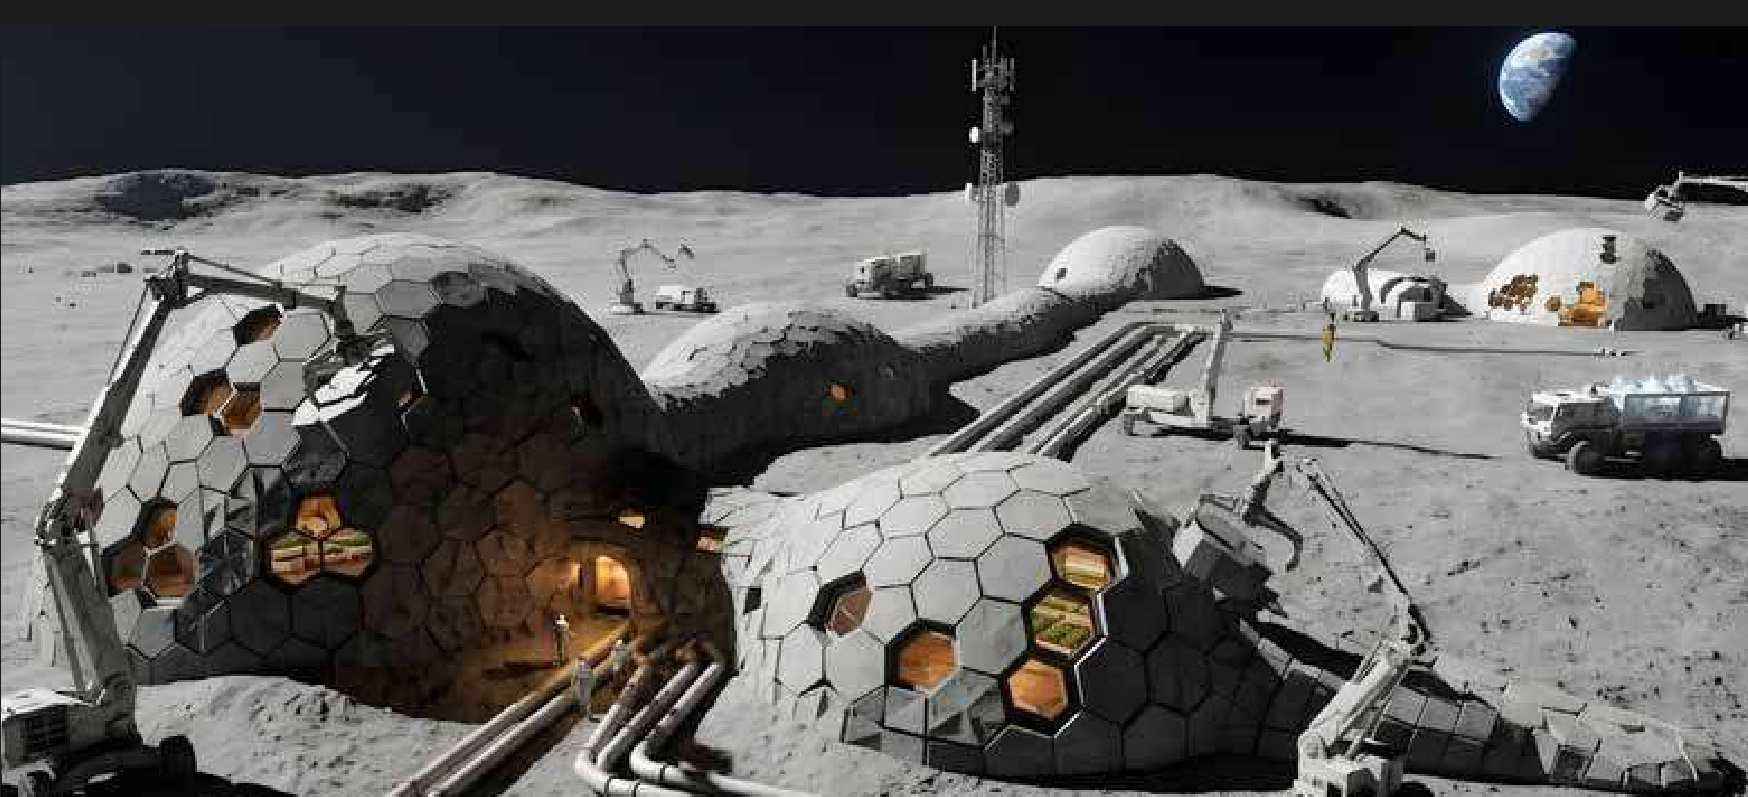
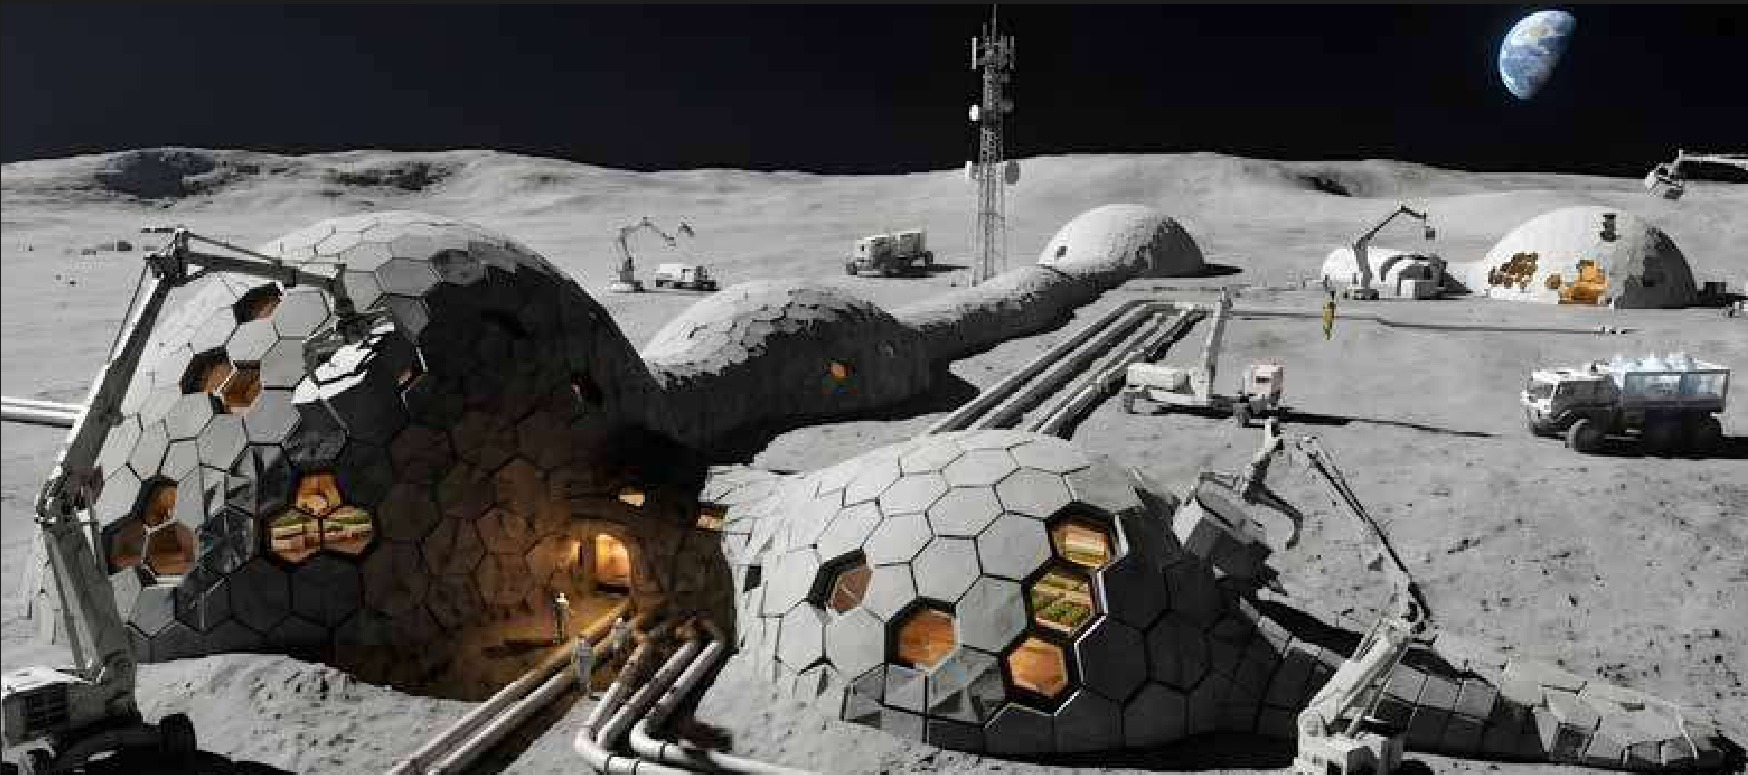
Add 6 major projects to Architecture: Next Earth, RE:FLOW, UN-COVERING, The Bistro, Nagasaki Memorial, Transforming Architecture
- Each project gets 3 pages (hero render, then two supporting images
  cropped from the original studio panels/OMA portfolio)
- English copy per project covers the 5W1H: what it is, where, when,
  why it exists, how it was built, and what tools were used
- Grasshopper geometry studies (Museum/Oceanografic) now sit after the
  major projects as a separate "study" section
- Removed the 10 empty Architecture placeholder cards now that the
  room has real content

diff --git a/assets/js/app.js b/assets/js/app.js
@@ -109,6 +109,39 @@
       ['freelance16.jpg','freelance16_sub.jpg']),
   ];
 
+  const FEATURED_PROJECTS = [
+    {
+      title: 'THE NEXT EARTH',
+      pages: ['assets/images/arch_nextearth_hero.jpg', 'assets/images/arch_nextearth_sections.jpg', 'assets/images/arch_nextearth_robot.jpg'],
+      desc: 'Graduation thesis, Kyonggi University, 2026. An autonomous, robot-built settlement at the lunar south pole, engineered around ISRU (in-situ resource utilization) so it depends on almost nothing shipped from Earth. I translated real space-science data into an actual construction sequence — siting logic, a diagrid shell system, and a custom robotic arm I built and coded myself to prove the assembly process physically, not just on screen. Rhino, Grasshopper, Python, Arduino.',
+    },
+    {
+      title: 'RE:FLOW',
+      pages: ['assets/images/arch_reflow_hero.jpg', 'assets/images/arch_reflow_site.jpg', 'assets/images/arch_reflow_plans.jpg'],
+      desc: 'Capstone Design Studio 5, 2025. An urban regeneration and renovation project for Jeongjo-ro 796, a rare alley in Suwon that still traces the city\'s original 18th-century waterway. I measured the site myself, interviewed the shopkeepers and a security guard who actually work there, and used their accounts to drive a massing strategy that reopens the alley\'s historic flow of water and people. Rhino, AutoCAD, Enscape.',
+    },
+    {
+      title: 'UN-COVERING',
+      pages: ['assets/images/arch_uncovering_hero.jpg', 'assets/images/arch_uncovering_facade.jpg', 'assets/images/arch_uncovering_section.jpg'],
+      desc: 'Design Studio 6, Fall 2025. A timber canopy and public plaza reweaving Tongin Market\'s arcade back into Seoul\'s Seochon neighborhood, addressing a street where materials, ownership, and history had all fragmented. I designed a repeatable timber-and-polycarbonate facade module and an interactive water plaza with four distinct modes, then detailed the construction down to material thickness. Rhino, V-Ray.',
+    },
+    {
+      title: 'THE BISTRO',
+      pages: ['assets/images/arch_bistro_hero.jpg', 'assets/images/arch_bistro_structure.jpg', 'assets/images/arch_bistro_plan.jpg'],
+      desc: '3rd-year studio, Seocho-gu, Seoul. A culinary and cultural complex built on the site\'s history as rice paddies once cultivated for the royal court. The concept — the dynamism of roots — pushed into a form-active diagrid structure with a rice-blended concrete facade, developed through hand sketches, physical mesh studies, and a full structural skin diagram. Rhino, Grasshopper.',
+    },
+    {
+      title: '1945: A Landscape of Memory',
+      pages: ['assets/images/arch_nagasaki_hero.jpg', 'assets/images/arch_nagasaki_site.jpg', 'assets/images/arch_nagasaki_human.jpg'],
+      desc: 'Academic project, Nagasaki, Japan. A memorial pavilion that resists the instinct to seal grief behind walls — instead the structure stays porous and open, woven into daily foot traffic so remembrance and ordinary life share the same ground. I built the design around real blast-radius and casualty data, then let that data generate the pavilion\'s organic, wreath-like structural geometry.',
+    },
+    {
+      title: 'Transforming Architecture',
+      pages: ['assets/images/arch_transform_hero.jpg', 'assets/images/arch_transform_model.jpg', 'assets/images/arch_transform_structural.jpg'],
+      desc: 'Independent research project. A study of tensegrity structures using the same self-stabilizing logic found in DNA-origami nanoparticles, prototyped as physical wood-and-string models before being pushed toward architectural scale. Structural analysis — buckling, natural frequency, impact response — tested its viability for disaster-response shelters and off-world habitats, a research line that continues directly into The Next Earth\'s lunar structure. Rhino, Karamba3D.',
+    },
+  ];
+
   const STUDY_PROJECTS = [
     {
       title: 'Museum of the Future — Geometry Study',
@@ -123,7 +156,7 @@
   ];
 
   const DATA = {
-    architecture: STUDY_PROJECTS.concat(placeholderProjects('architecture', 10)),
+    architecture: FEATURED_PROJECTS.concat(STUDY_PROJECTS),
     freelance: FREELANCE_CASES,
   };
 
